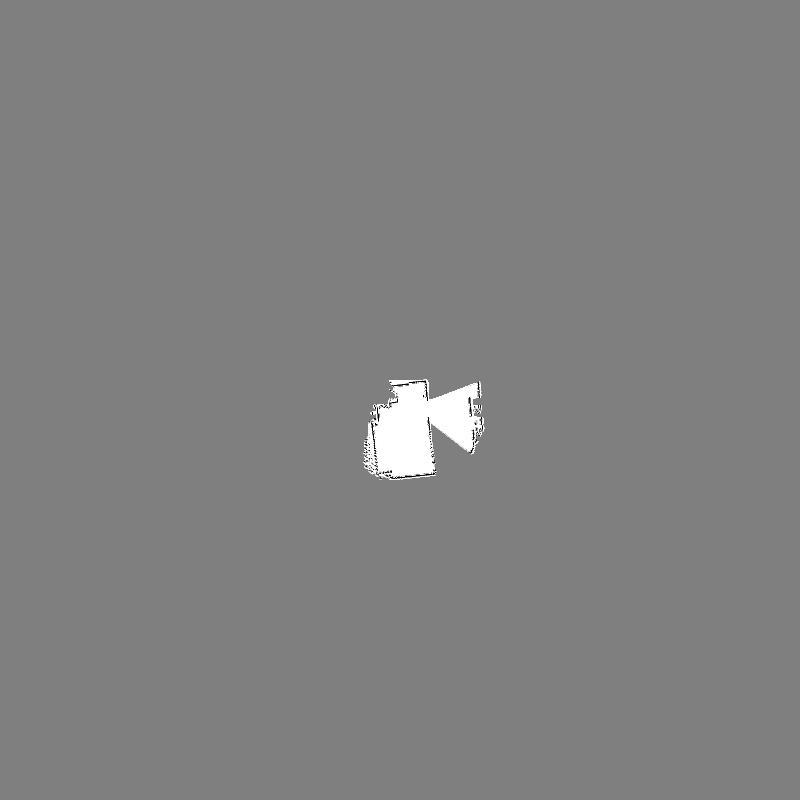
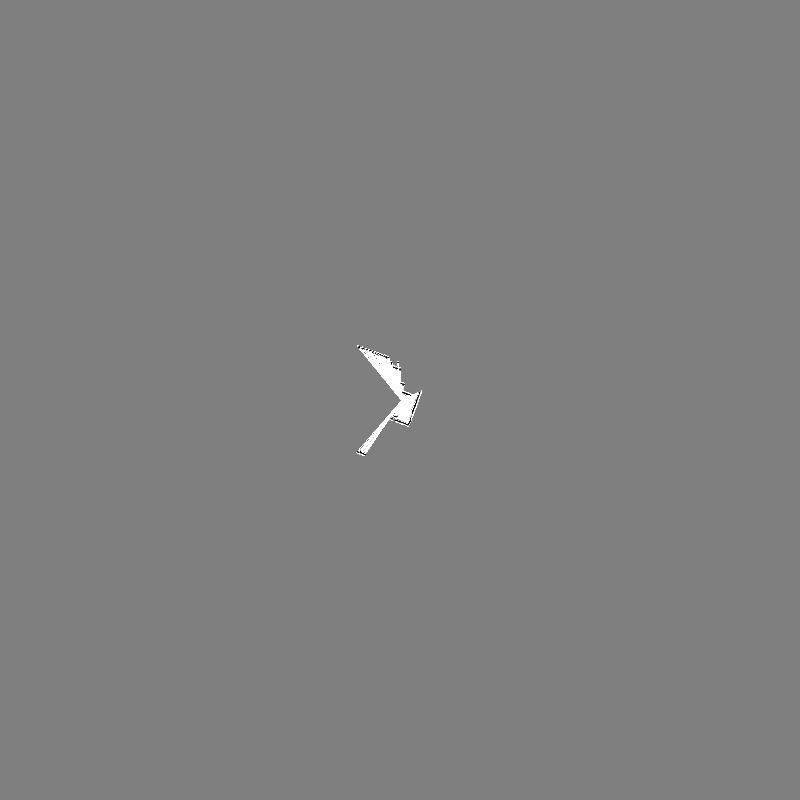
fix position

Changed region(s): [[0.4375, 0.4375, 0.625, 0.625]]

diff --git a/lib/agents.py b/lib/agents.py
@@ -42,7 +42,6 @@ class Controller(object):
         G[1][2] = y
         G[2][2] = 1
         pt2 = np.matmul(np.linalg.inv(G), pt)
-        print(pt2)
         return np.array([pt[0], pt[1]])
     
     # param: current and target position
@@ -221,9 +220,9 @@ class Pioneer(object):
         gray  = np.reshape(array, [settings.image_size, settings.image_size])
         # gray = color(gray, self.pos, 100)
         # gray = color(gray, self.current_target, 100)
-        skio.imsave("driving.jpg", gray)
+        # skio.imsave("driving.jpg", gray)
         vels = self.controller.compute_vel(self.pos, self.theta, self.current_target)
-        self.change_velocity(vels)
+        # self.change_velocity(vels)
 
 class Display(object):
     def __init__(self, agent, wall):
@@ -247,9 +246,7 @@ class Display(object):
         self.speed_location  = [(60,700), (90,700)]
         self.step = 0
         # Create cv2 window
-        print("before")
         cv2.namedWindow('Simultaneous Localization and Mapping (SLAM)', cv2.WINDOW_NORMAL)
-        print("after")
         cv2.resizeWindow('Simultaneous Localization and Mapping (SLAM)', 700, 700)
 
     def update(self):
@@ -286,8 +283,6 @@ class Display(object):
 
         array = np.frombuffer(self.bytearray, dtype=np.uint8)
         gray  = np.reshape(array, [settings.image_size, settings.image_size])
-        #print([x for x in array if x!= 127])
-        # skio.imsave("a.jpg", gray)
         
         #self.agent.current_target = (450, 400)
         print("pos:", self.agent.pos)
@@ -298,14 +293,16 @@ class Display(object):
             print("***target:", self.centroids[0])
             array = np.frombuffer(self.bytearray, dtype=np.uint8)
             grid = np.reshape(array, [settings.image_size, settings.image_size])
-            obst = preprocess_grid(grid)
+            obst = preprocess_grid(grid, True)
             obst = grow_obstacle(obst)
             waypoints = lee_planning_path(obst, (self.agent.pos[0], self.agent.pos[1]), self.centroids[0])
             print("***end path planning")
             if waypoints:
                 self.agent.current_target = waypoints[0]
+
                 self.waypoints = waypoints
         print("wp in action:", self.agent.current_target)
+        print("all_waypoints:", self.waypoints)
         if self.agent.current_target:
             cv2.drawMarker(self.im, (self.agent.current_target[0], -self.agent.current_target[1]), (0,255,0), markerSize=25, markerType=cv2.MARKER_STAR)
 
@@ -402,10 +399,9 @@ class Display(object):
             return
         # draw frontier pts        
         for i in range(len(cx)):
-            cv2.drawMarker(img, (int(cy[i]), int(cx[i])), (0,0,255), markerSize=5)
+            cv2.drawMarker(img, (int(cy[i]), int(settings.image_size-cx[i])), (0,0,255), markerSize=5)
         # draw centroids        
         for gid in range(1, max(clusters)+1):
-            print(gid)
             ccopy = np.copy(clusters)
             ccopy[ccopy != gid] = 0
             mask = np.nonzero(ccopy)
@@ -414,14 +410,15 @@ class Display(object):
             xcenter = np.mean(cx[mask])
             ycenter = np.mean(cy[mask])
             self.centroids.append((int(xcenter), int(ycenter)))
-            cv2.drawMarker(img, (int(ycenter), int(xcenter)), (0,255,255), markerSize=25, markerType=cv2.MARKER_STAR)
+            cv2.drawMarker(img, (int(ycenter), int(settings.image_size - xcenter)), (0,255,255), markerSize=25, markerType=cv2.MARKER_STAR)
 
     def draw_wps_delayed(self, im, waypoints):
         for i in range(len(waypoints)):
             #cv2.drawMarker(im, (waypoints[i][1], waypoints[i][0]), (0,0,0), markerSize=25, markerType=cv2.MARKER_TRIANGLE_UP)
-            cv2.drawMarker(im, waypoints[i], (0,0,0), markerSize=25, markerType=cv2.MARKER_TRIANGLE_UP)
+            # cv2.drawMarker(im, waypoints[i], (0,0,0), markerSize=25, markerType=cv2.MARKER_TRIANGLE_UP)
+            cv2.drawMarker(im, (waypoints[i][1], settings.image_size - waypoints[i][0]), (0,0,0), markerSize=25, markerType=cv2.MARKER_TRIANGLE_UP)
             if i != 0:
-                cv2.line(im, waypoints[i-1], waypoints[i], (0,0,255), 1)
+                cv2.line(im, (waypoints[i-1][1], settings.image_size - waypoints[i-1][0]), (waypoints[i][1], settings.image_size - waypoints[i][0]), (0,0,255), 1)
             
             
 

diff --git a/run.py b/run.py
@@ -101,15 +101,15 @@ if __name__ == "__main__":
         #environment.step_simulation()
         camera_handle = environment.get_handle('Vision_sensor')
         
-        listener = Listener(on_press=on_press, on_release=on_release)
-        listener.start()
+        # listener = Listener(on_press=on_press, on_release=on_release)
+        # listener.start()
         
         while step < settings.simulation_steps:
+            print()
+            print("step:", step)
             environment.pause_simulation()
             display.update()
-            environment.start_simulation()
-            
-            print("step:", step)            
+            environment.start_simulation()            
             loop(robot, display)
             step += 1
             #if robot.pos[0] < 330:

diff --git a/settings.py b/settings.py
@@ -15,6 +15,6 @@ simulation_steps = 5000
 image_size = 800
 map_size   = 80
 steps_slam = 1 # Perform SLAM every n steps
-steps_lee = 20 # Perform path planning every n steps
+steps_lee = 10 # Perform path planning every n steps
 cluster_threshold = 5 # threshold t for scipy.cluster.hierarchy.fclusterdata
 cluster_filter = 5 # clusters with pixels less than this number will be deleted

diff --git a/lib/frontier.py b/lib/frontier.py
@@ -71,7 +71,8 @@ def frontier(gridmap):
     return trued
 
 def frontier_cluster(grid):
-    grid = preprocess_grid(grid, False)
+    grid = preprocess_grid(grid, True)
+    # skio.imsave("frontier_finding.jpg", grid)
     ft = frontier(grid)
     coordinates = np.array(np.nonzero(ft))
     coordinates = np.transpose(coordinates)
